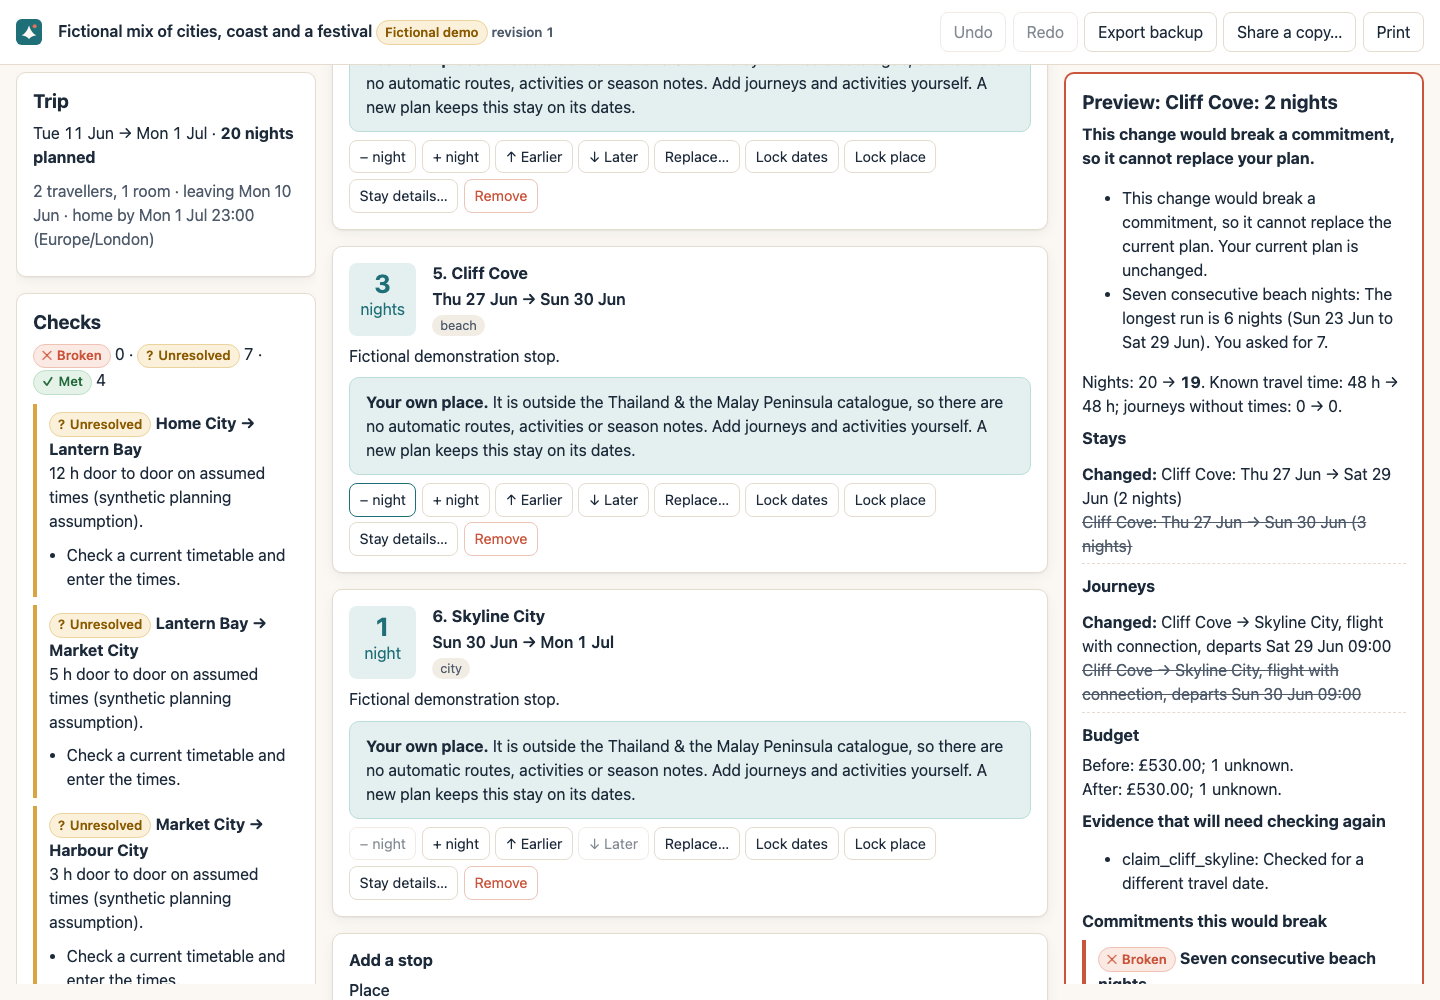
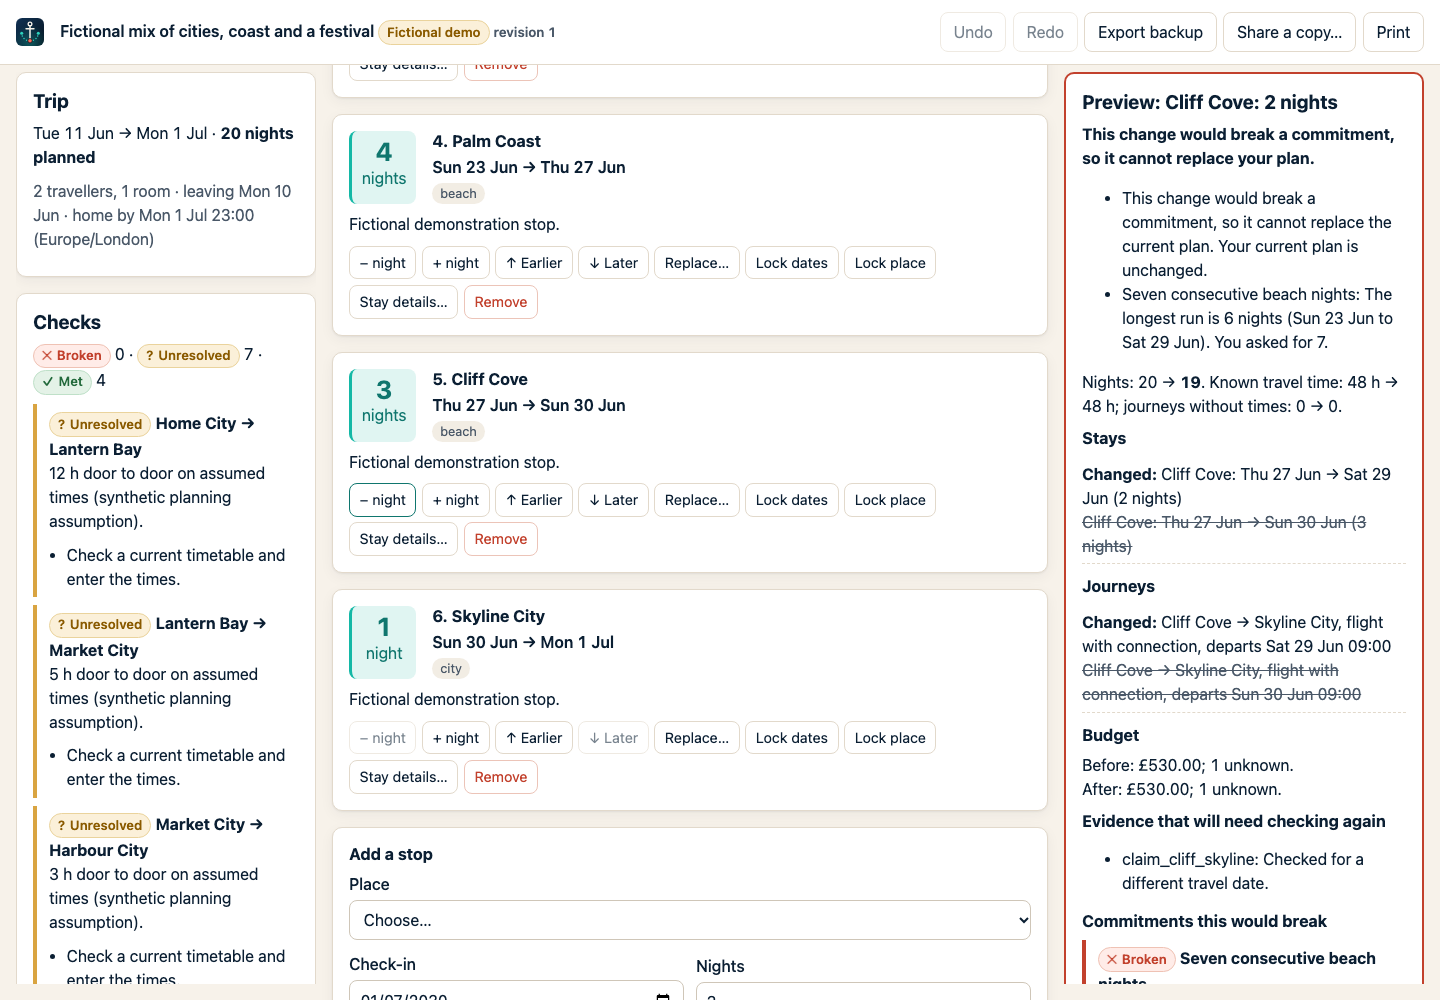
Apply the Anchorline brand to the app
The logo tile is the favicon, app icon and header mark, next to the
"holiday planner" descriptor. The palette moves to Navy and Sand, with
deeper teal and coral shades for text so they still meet WCAG AA. Adds
the OFL font credits for the wordmark and banners. Screenshots and the
core-workflow demo are regenerated.

Claude-Session: https://claude.ai/code/session_01GDvtBuxGiKsSKGHkg5JMN3

diff --git a/src/ui/styles.css b/src/ui/styles.css
@@ -1,18 +1,22 @@
 :root {
-  --paper: #fbf8f3;
+  /* Brand: Navy #0b1f33, Sand #f7f2ea, Teal #14b8a6/#2dd4bf, Coral #ff6b57.
+     Text and controls use deeper shades of teal and coral so they meet WCAG AA. */
+  --paper: #f7f2ea;
   --card: #ffffff;
-  --ink: #1d2a3a;
-  --ink-soft: #4f5b6b;
-  --line: #e4dccf;
-  --teal: #1f6f78;
-  --teal-soft: #e3f0ef;
-  --coral: #c9563c;
-  --coral-soft: #fbe9e3;
+  --ink: #0b1f33;
+  --ink-soft: #4a5868;
+  --line: #e2d9cb;
+  --teal: #0f766e;
+  --teal-bright: #14b8a6;
+  --teal-soft: #e0f5f2;
+  --coral: #c2412d;
+  --coral-bright: #ff6b57;
+  --coral-soft: #ffece8;
   --amber: #8a5a00;
   --amber-soft: #fbf0d9;
   --green: #22693b;
   --green-soft: #e4f2e7;
-  --focus: #1f6f78;
+  --focus: #0f766e;
   --radius: 10px;
   --shadow: 0 1px 2px rgb(29 42 58 / 6%), 0 4px 14px rgb(29 42 58 / 5%);
   color-scheme: light;
@@ -55,7 +59,7 @@ button, .button {
 button:hover:not(:disabled), .button:hover { border-color: var(--teal); }
 button:disabled { opacity: 0.55; cursor: not-allowed; }
 button.primary, .button.primary { background: var(--teal); border-color: var(--teal); color: #fff; font-weight: 600; }
-button.primary:hover:not(:disabled) { background: #185a61; }
+button.primary:hover:not(:disabled) { background: #0b5f59; }
 button.danger { color: var(--coral); border-color: #ecc4b8; }
 button.small { min-height: 2.1rem; padding: 0.25rem 0.6rem; font-size: 0.9rem; }
 button.link { border: none; background: none; color: var(--teal); padding: 0.2rem; min-height: auto; text-decoration: underline; }
@@ -99,10 +103,10 @@ legend { font-weight: 700; padding: 0 0.3rem; }
 
 .tabs { display: flex; flex-wrap: wrap; gap: 0.25rem; border-bottom: 1px solid var(--line); margin-bottom: 1rem; }
 .tabs button { border: none; border-bottom: 3px solid transparent; border-radius: 0; background: none; padding: 0.5rem 0.8rem; }
-.tabs button[aria-selected='true'] { border-bottom-color: var(--teal); font-weight: 700; color: var(--teal); }
+.tabs button[aria-selected='true'] { border-bottom-color: var(--teal-bright); font-weight: 700; color: var(--teal); }
 
 .stay { display: grid; grid-template-columns: auto minmax(0, 1fr); gap: 0.25rem 1rem; }
-.nights { grid-row: span 3; text-align: center; min-width: 4.2rem; padding: 0.4rem; border-radius: 8px; background: var(--teal-soft); color: var(--teal); }
+.nights { grid-row: span 3; text-align: center; min-width: 4.2rem; padding: 0.4rem; border-radius: 8px; background: var(--teal-soft); color: var(--teal); border-left: 3px solid var(--teal-bright); }
 .nights strong { display: block; font-size: 1.6rem; line-height: 1.1; }
 .dates { font-weight: 600; }
 .tags { display: flex; flex-wrap: wrap; gap: 0.3rem; }
@@ -114,7 +118,7 @@ legend { font-weight: 700; padding: 0 0.3rem; }
 .badge.bad { color: var(--coral); background: var(--coral-soft); border-color: #efc2b4; }
 .badge.open { color: var(--amber); background: var(--amber-soft); border-color: #ead39c; }
 .badge.neutral { color: var(--ink-soft); background: #f2ede4; border-color: var(--line); }
-.badge.lock { color: var(--ink); background: #eef1f5; border-color: #d4dbe5; }
+.badge.lock { color: var(--coral); background: var(--coral-soft); border-color: var(--coral-bright); }
 
 .check { border-left: 4px solid var(--line); padding: 0.4rem 0.75rem; margin-bottom: 0.5rem; background: #fff; border-radius: 0 8px 8px 0; }
 .check.violated { border-left-color: var(--coral); }

diff --git a/index.html b/index.html
@@ -3,9 +3,10 @@
   <head>
     <meta charset="UTF-8" />
     <meta name="viewport" content="width=device-width, initial-scale=1" />
-    <meta name="theme-color" content="#f7f3ec" />
+    <meta name="theme-color" content="#0b1f33" />
     <meta name="description" content="Anchorline: plan around what can't move. An offline-first holiday planner that previews every change and keeps your trips on your device." />
-    <link rel="icon" href="/favicon.svg" type="image/svg+xml" />
+    <link rel="icon" href="/logo.svg" type="image/svg+xml" />
+    <link rel="apple-touch-icon" href="/logo-512.png" />
     <link rel="manifest" href="/manifest.webmanifest" />
     <title>Anchorline · holiday planner</title>
   </head>

diff --git a/src/features/workspace/StaysView.tsx b/src/features/workspace/StaysView.tsx
@@ -27,7 +27,7 @@ export function StaysView({ session }: { session: TripSession }) {
   const name = (s: Stay) => placeName(doc, s.placeId);
   const isCustom = (s: Stay) => {
     const p = doc.places.find((x) => x.id === s.placeId);
-    return Boolean(p && !p.catalogueId && !DEFAULT_PACK.places.some((c) => c.id === p.id));
+    return Boolean(p && p.dataKind === 'user' && !p.catalogueId && !DEFAULT_PACK.places.some((c) => c.id === p.id));
   };
   const resize = (s: Stay, delta: number) => {
     const nights = stayNights(s) + delta;

diff --git a/src/ui/components.tsx b/src/ui/components.tsx
@@ -92,11 +92,5 @@ export function Brand({ compact = false }: { compact?: boolean }) {
 }
 
 export function Logo() {
-  return (
-    <svg viewBox="0 0 64 64" aria-hidden="true">
-      <rect width="64" height="64" rx="14" fill="#1f6f78" />
-      <path d="M14 40c8-3 14-12 18-24 4 12 10 21 18 24-6 1-12 3-18 9-6-6-12-8-18-9z" fill="#fbf8f3" />
-      <circle cx="46" cy="18" r="5" fill="#e0735a" />
-    </svg>
-  );
+  return <img src="/logo.svg" alt="" width={28} height={28} />;
 }

diff --git a/tests/e2e/core-flow.spec.ts b/tests/e2e/core-flow.spec.ts
@@ -26,6 +26,7 @@ for (const size of SIZES) {
       await page.getByLabel('Leave the last stop').fill('2031-02-14');
       await page.getByLabel('Home by (date)').fill('2031-02-15');
       await page.getByLabel('Consecutive beach nights').fill('4');
+      await page.evaluate(() => window.scrollTo(0, 0));
       await shot('01-create-trip');
 
       await page.getByRole('button', { name: 'Review summary' }).click();

diff --git a/NOTICE.md b/NOTICE.md
@@ -12,6 +12,7 @@ Bundled runtime dependencies (shipped in the browser build):
 | zod | 4.6.7 | MIT | |
 | dexie | 4.4.7 | Apache-2.0 | Copyright (c) 2014-2017 David Fahlander. Licensed under the Apache License, Version 2.0: http://www.apache.org/licenses/LICENSE-2.0 |
 | temporal-polyfill | 1.0.6 | MIT | |
+| @modelcontextprotocol/sdk | 1.32.2 | MIT | Bundled into the CLI and MCP server only |
 
 Development-only tools (not shipped): vite, @vitejs/plugin-react, typescript (Apache-2.0), vitest, eslint, @eslint/js, typescript-eslint, eslint-plugin-react-hooks, eslint-plugin-react-refresh, globals, @playwright/test (Apache-2.0), fake-indexeddb (Apache-2.0), @types/*. Exact versions are pinned in `package-lock.json`.
 
@@ -21,7 +22,9 @@ Development-only tools (not shipped): vite, @vitejs/plugin-react, typescript (Ap
 |---|---|---|
 | `src/catalogue/packs/thailand-malay-peninsula.json` | Written for this project. Each record cites its sources (Wikivoyage, Wikipedia) by link, with a check date of 31 October 2026. No text was copied from those sources. | MIT, as project-authored data. The linked pages remain under their own licences (CC BY-SA). |
 | `src/fixtures/synthetic-demo-trip.json` | Wholly fictional planning fixture: invented places, event, times and allowances. Real IANA time-zone names only. | MIT |
-| Icons and logo (`public/favicon.svg`, inline SVG) | Drawn for this project. | MIT |
+| Brand assets in `docs/brand/` and `public/logo.svg`, `public/logo-512.png` (logo, wordmarks, banners, social preview, demo GIF) | Made for this project. The banners and GIF show fictional sample data. | MIT |
+| Wordmark lettering in `docs/brand/wordmark-*.svg` and banner type | Outlined glyphs from **Outfit** by Rodrigo Fuenzalida, and **Inter** by Rasmus Andersson in the banners. Both fonts are licensed under the SIL Open Font License 1.1 (https://openfontlicense.org). No font files are included. | SIL OFL 1.1 (fonts); MIT (artwork) |
+| Bundled CLI `skills/anchorline/scripts/anchorline.mjs` | Built from `src/` with esbuild; includes the runtime dependencies listed above plus `@modelcontextprotocol/sdk` (MIT) and its dependencies. Their licence notices are kept at the end of the file. | See each package |
 | Screenshots in `docs/screenshots/` | Captured from the fictional demo and a generated example trip. | MIT |
 
 No maps, map tiles, geocoding results, photographs, provider responses or third-party reviews are included.
